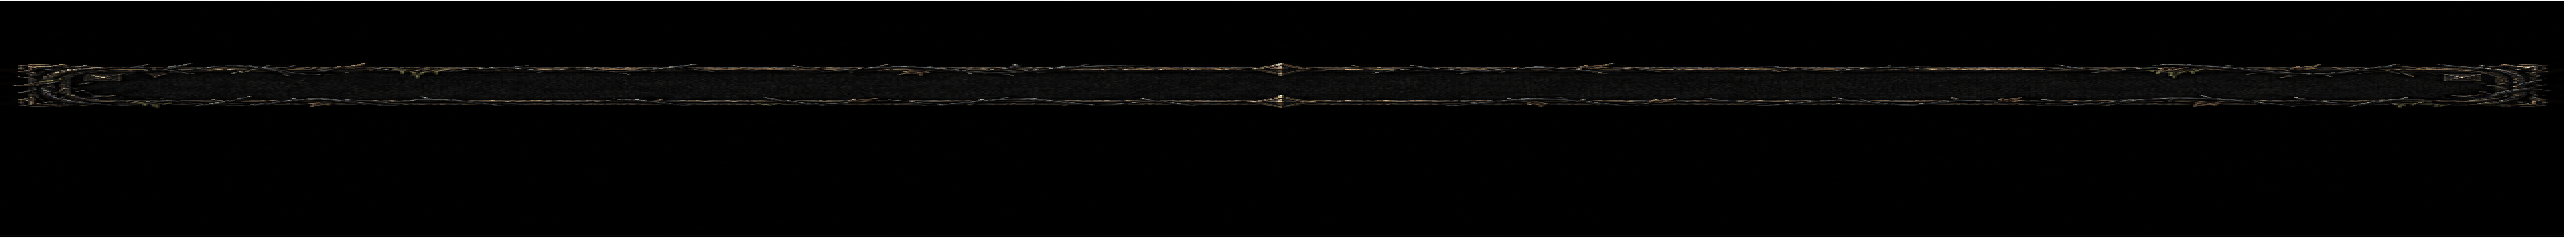
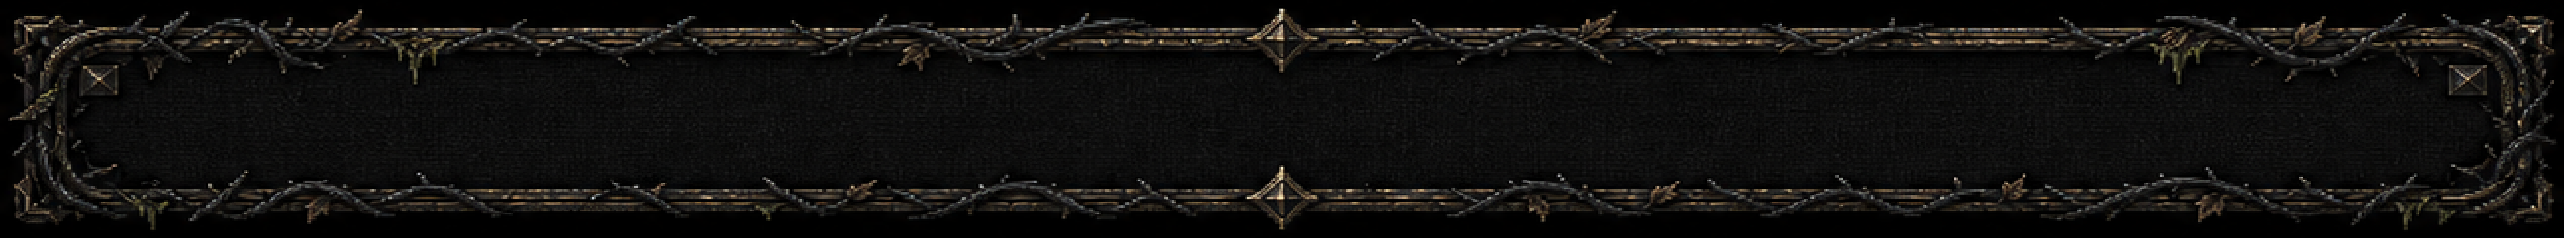
prompty ikon: +icon_random (losowe znalezisko) i +icon_card (dobór karty)

Changed region(s): [[0.0, 0.0588, 0.9984, 0.9412], [0.0, 0.9706, 1.0, 1.0], [0.0, 0.0, 1.0, 0.0294]]

diff --git a/docs/asset_plan/ASSET_PROMPTS_STAT_ICONS.md b/docs/asset_plan/ASSET_PROMPTS_STAT_ICONS.md
@@ -1,6 +1,7 @@
 # Prompty: zestaw ikon statystyk i zasobów (2026-07-06)
 
-10 małych ikon do górnego HUD i wiersza kosztów na kartach. Kod jest już
+12 małych ikon: 10 do górnego HUD i wiersza kosztów na kartach + 2 do
+efektów kart (losowe znalezisko, dobór karty). Kod jest już
 wpięty (plug-and-play): wrzucenie plików do `assets/art/ui/icons/stats/`
 automatycznie włącza ikony na pasku HUD i zamienia słowne koszty na kartach
 na ikona+cyfra. Brak plików = obecny wygląd tekstowy, zero regresji.
@@ -18,7 +19,14 @@ assets/art/ui/icons/stats/icon_water.png    (zapas wody)
 assets/art/ui/icons/stats/icon_wood.png     (drewno)
 assets/art/ui/icons/stats/icon_stone.png    (kamień)
 assets/art/ui/icons/stats/icon_tools.png    (narzędzia)
+assets/art/ui/icons/stats/icon_random.png   (losowe znalezisko — „?")
+assets/art/ui/icons/stats/icon_card.png     (dobierz/dodaj kartę)
 ```
+
+Uwaga: `icon_random` i `icon_card` dotyczą efektów kart („+1 losowe
+znalezisko", „+2 karty do ręki"). Linia efektów jest dziś zwykłym Labelem
+(tekst) — te 2 ikony generujemy razem z zestawem, a ich wpięcie w linię
+efektów to osobny krok (RichTextLabel), do decyzji gdy assety będą gotowe.
 
 ## Pipeline
 
@@ -64,6 +72,8 @@ letters, numbers, multiple objects, photorealism, painterly blur, 3D render.
 | icon_wood | two stacked cut logs seen from the side, visible rings | warm timber brown, cream rings |
 | icon_stone | a rough gray stone chunk with a flint edge | cool gray with lighter facets |
 | icon_tools | a crossed stone axe and flint knife | wooden handles, gray stone heads |
+| icon_random | a bold question mark carved like weathered wood | aged gold with dark grain |
+| icon_card | a single playing card seen slightly tilted, blank dark-green face with a thin gold border | forest green face, aged gold trim |
 
 Uwaga na pary „stat vs zapas": sytość (miska gulaszu) ≠ jedzenie (koszyk),
 nawodnienie (kropla) ≠ woda (bukłak) — symbole muszą się wyraźnie różnić,